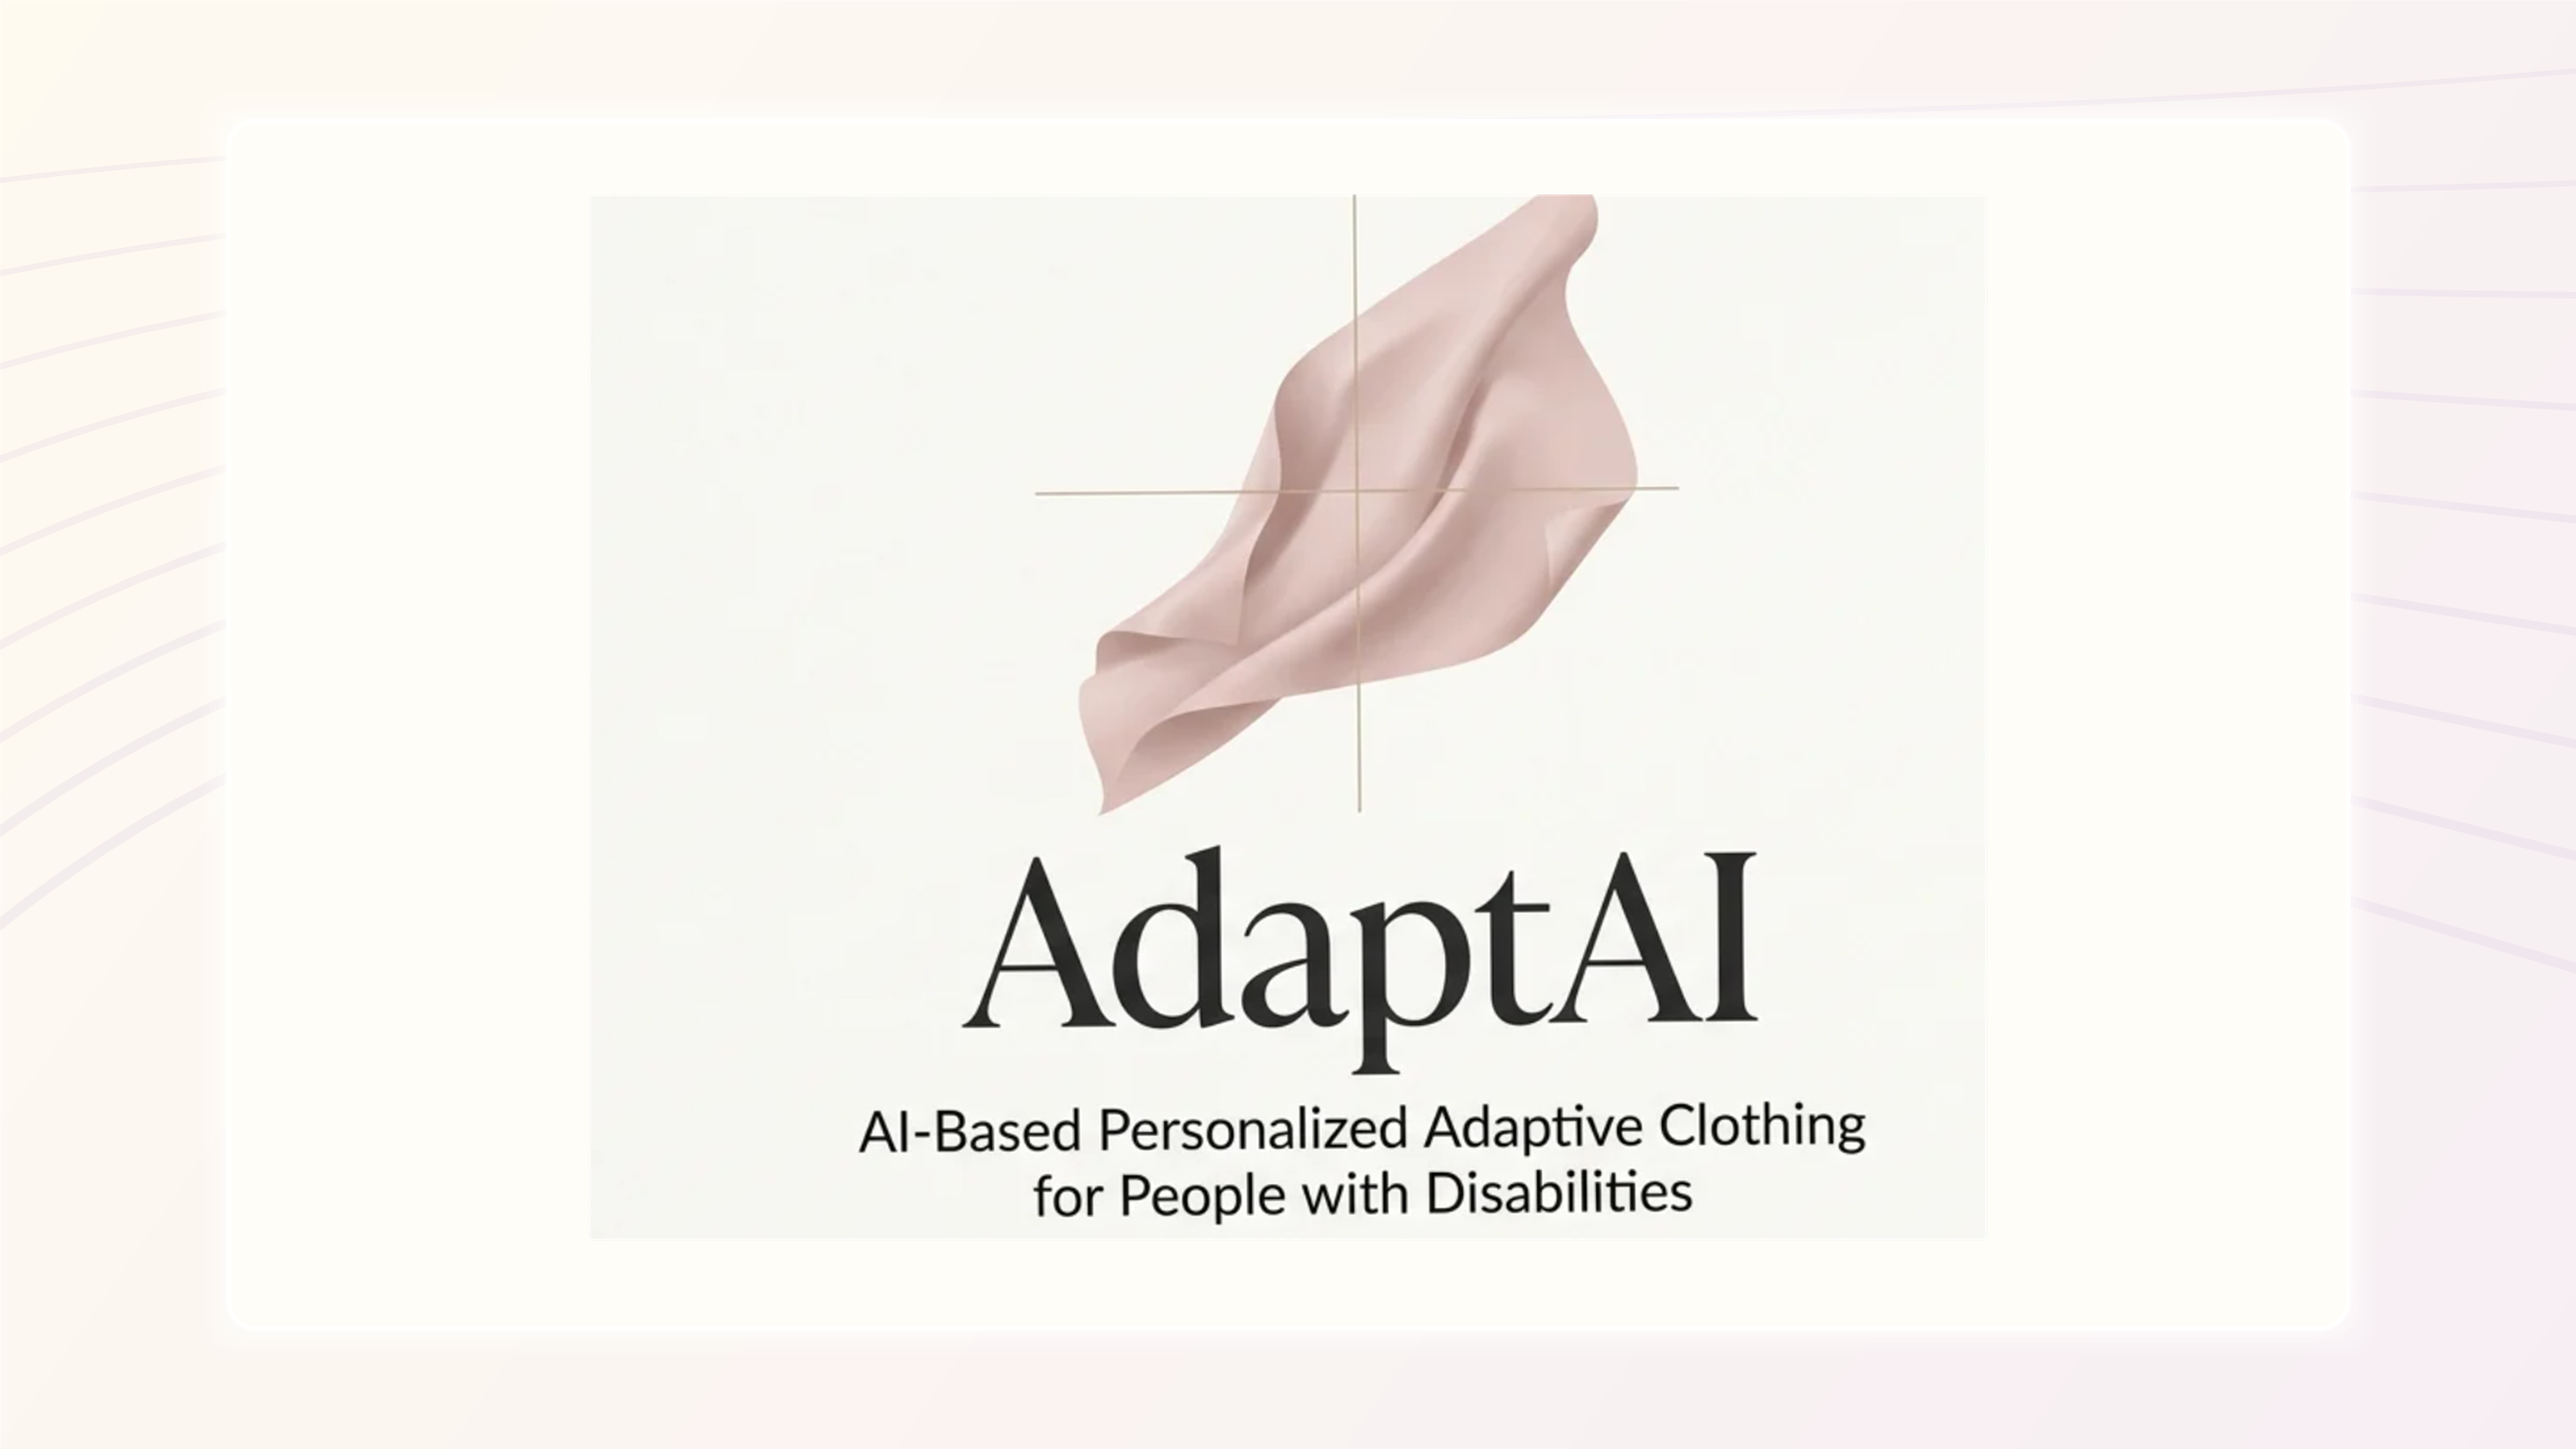
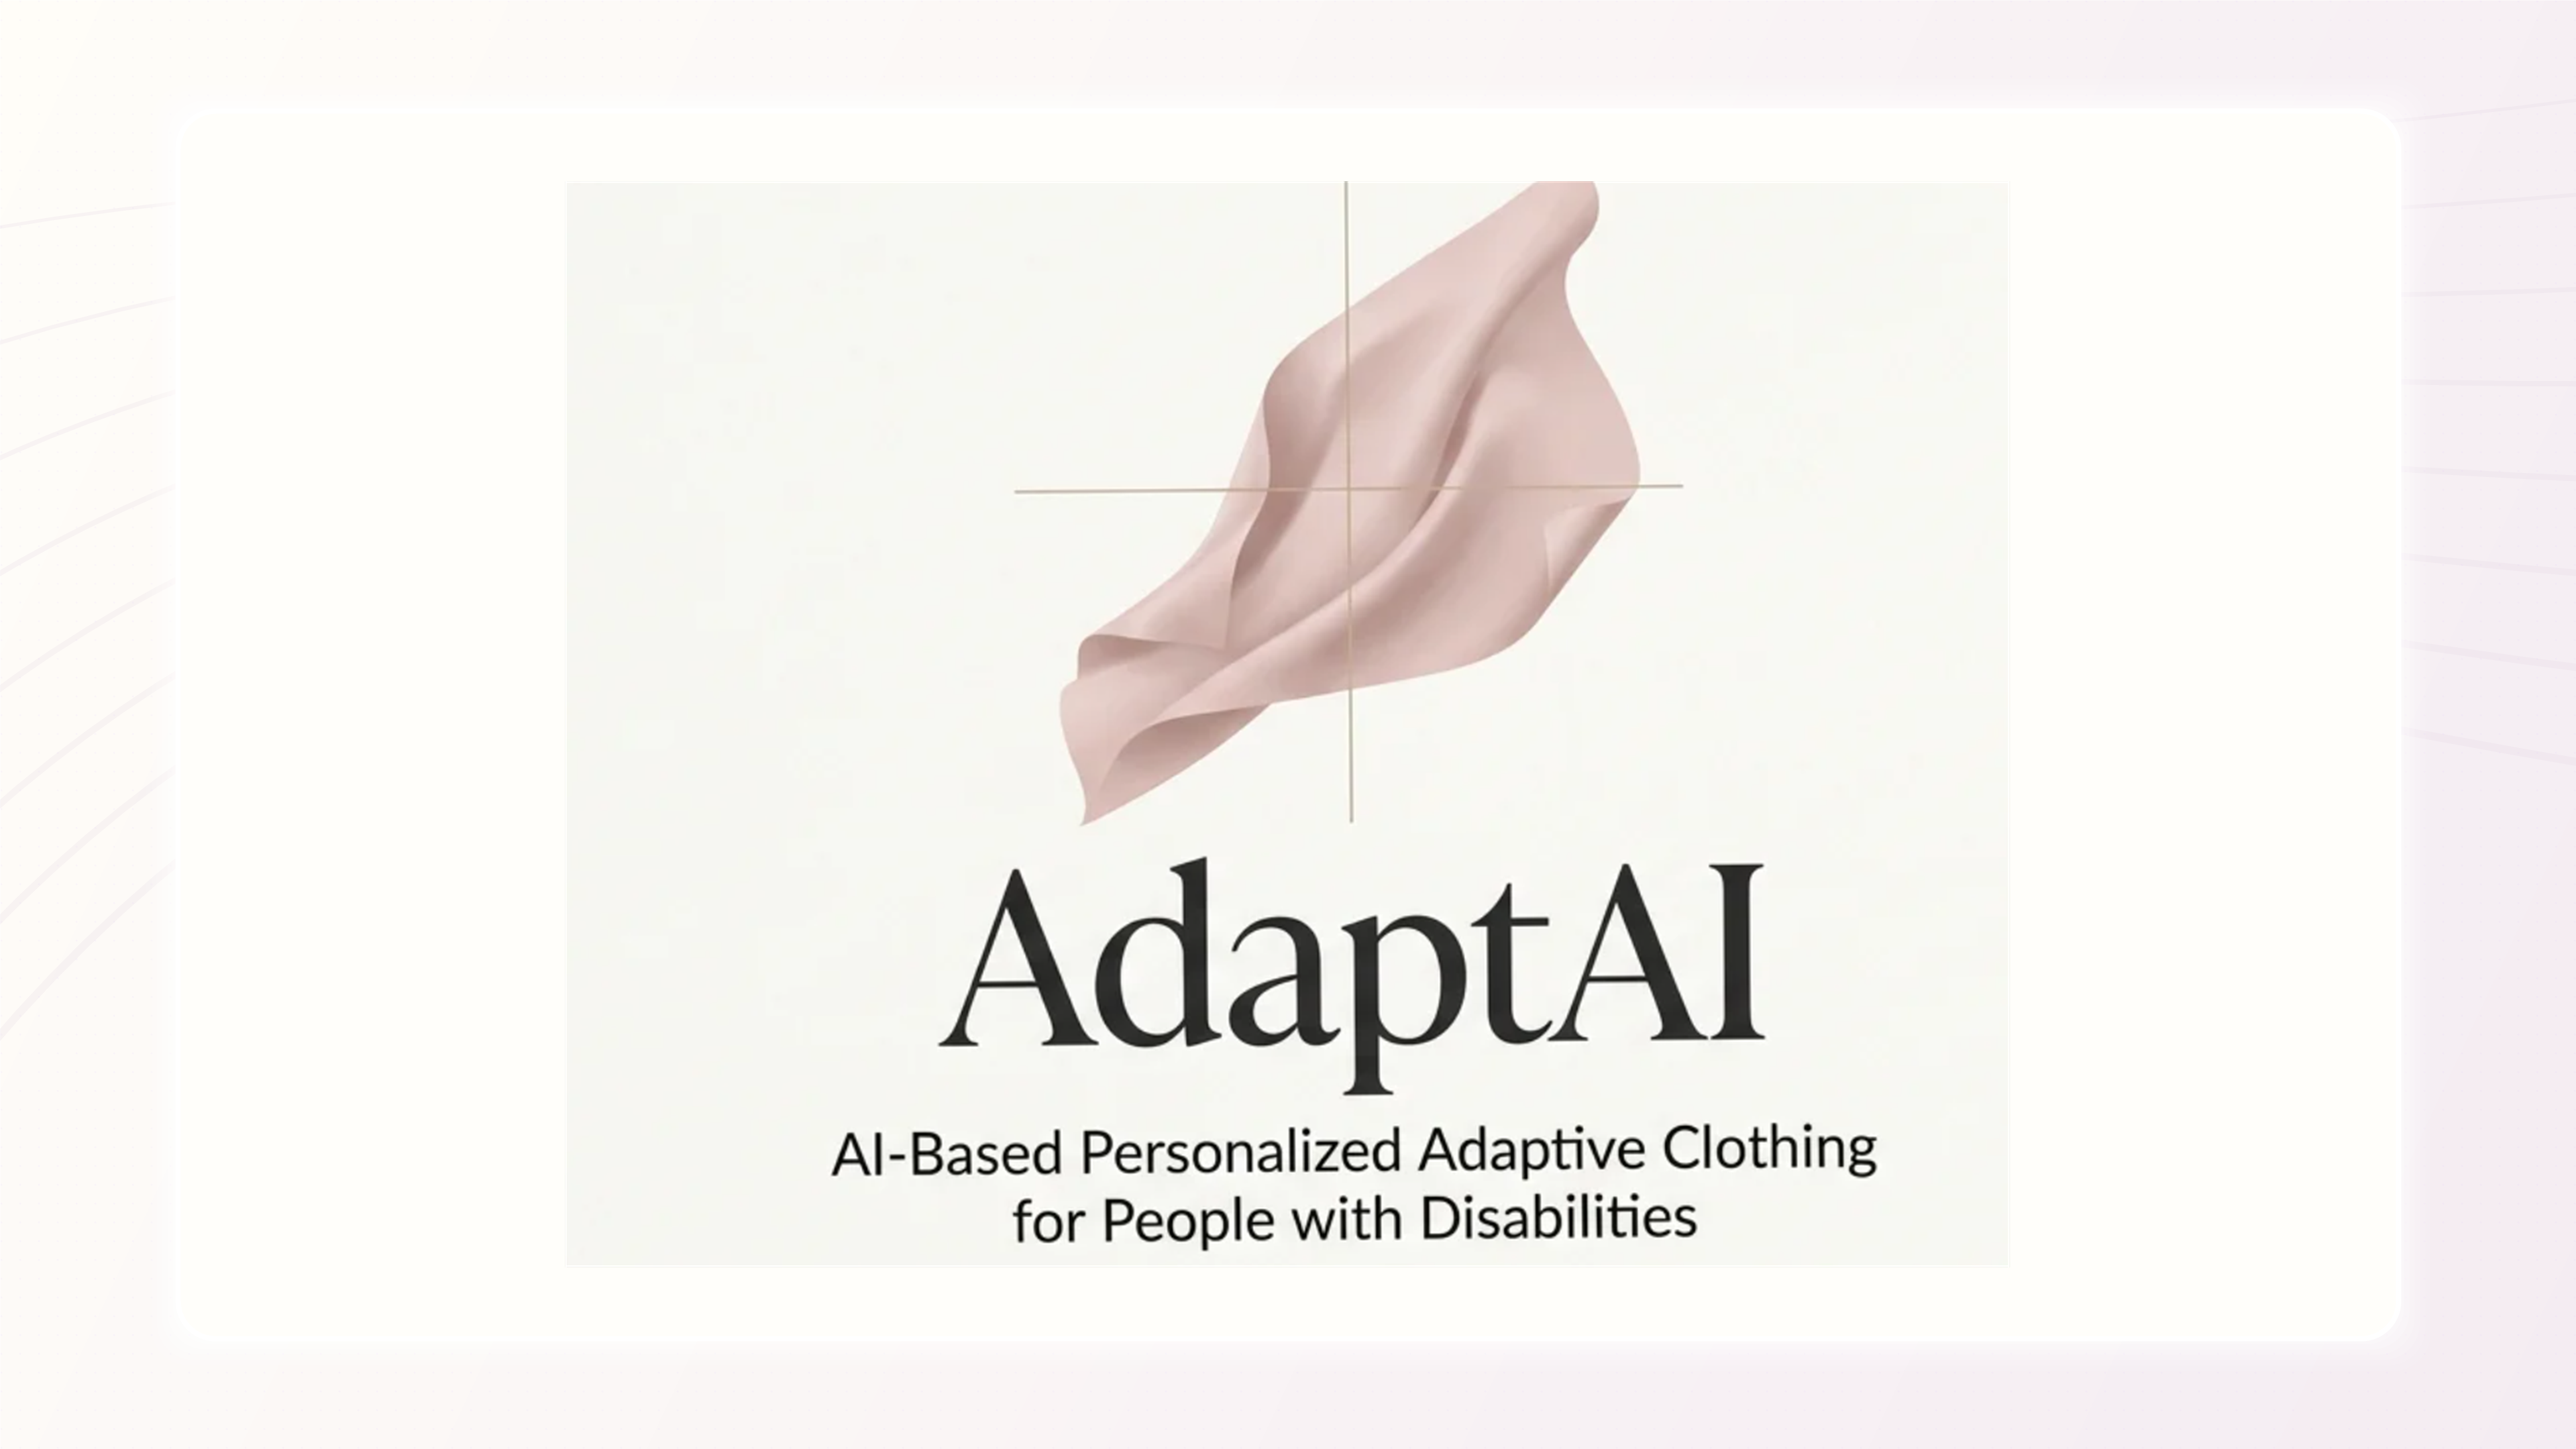
Center AdaptAI and fit Mentora covers

diff --git a/index.html b/index.html
@@ -7,7 +7,7 @@
   <link rel="preconnect" href="https://fonts.googleapis.com">
   <link rel="preconnect" href="https://fonts.gstatic.com" crossorigin>
   <link href="https://fonts.googleapis.com/css2?family=Allura&family=Anton&family=Sora:wght@400;600;700;800&family=Manrope:wght@400;500;700&display=swap" rel="stylesheet">
-  <link rel="stylesheet" href="styles.css?v=20260801-adapt-mentora-cover-polish" />
+  <link rel="stylesheet" href="styles.css?v=20260801-cover-align-final" />
 </head>
 <body class="projects-page dark-mode">
   <div id="loader" class="loader-screen" aria-live="polite">
@@ -73,7 +73,7 @@
         <article class="case-card project-showcase">
           <a class="project-tile-link" href="projects/campus-app.html" aria-label="Open AdaptAI case study">
             <div class="project-thumb divide-thumb">
-              <img src="assets/projects/adaptai/adaptai-home-cover.png?v=20260801-adapt-mentora-cover-polish" alt="AdaptAI adaptive clothing case study preview" loading="lazy" />
+              <img src="assets/projects/adaptai/adaptai-home-cover.png?v=20260801-cover-align-final" alt="AdaptAI adaptive clothing case study preview" loading="lazy" />
               <div class="project-award"><span class="trophy" aria-hidden="true">&#127942;</span><strong>1st Place</strong><span>Hackathon</span></div>
             </div>
           </a>
@@ -83,7 +83,7 @@
         <article class="case-card project-showcase">
           <a class="project-tile-link" href="projects/hackathon-toolkit.html" aria-label="Open Mentora case study">
             <div class="project-thumb mentora-thumb">
-              <img src="assets/projects/mentora/mentora-home-cover.png?v=20260801-adapt-mentora-cover-polish" alt="Mentora case study preview" loading="lazy" />
+              <img src="assets/projects/mentora/mentora-home-cover.png?v=20260801-cover-align-final" alt="Mentora case study preview" loading="lazy" />
               <div class="project-award"><span class="trophy" aria-hidden="true">&#127942;</span><strong>2nd Place</strong><span>Hackathon</span></div>
             </div>
           </a>
@@ -93,7 +93,7 @@
         <article class="case-card project-showcase">
           <a class="project-tile-link" href="projects/energy-dashboard.html" aria-label="Open MedAuth Clinical case study">
             <div class="project-thumb authform-thumb">
-              <img src="assets/projects/medauth/medauth-home-cover.png?v=20260801-adapt-mentora-cover-polish" alt="MedAuth Clinical physician dashboard preview" loading="lazy" />
+              <img src="assets/projects/medauth/medauth-home-cover.png?v=20260801-cover-align-final" alt="MedAuth Clinical physician dashboard preview" loading="lazy" />
               <div class="project-award"><span class="trophy" aria-hidden="true">&#127942;</span><strong>2nd Place</strong><span>Hackathon</span></div>
             </div>
           </a>
@@ -103,7 +103,7 @@
         <article class="case-card project-showcase">
           <a class="project-tile-link" href="projects/media-campaign.html" aria-label="Open UH Energy Website case study">
             <div class="project-thumb energy-thumb">
-              <img src="assets/projects/uh-energy/uh-energy-home-cover.png?v=20260801-adapt-mentora-cover-polish" alt="UH Energy website metrics case study preview" loading="lazy" />
+              <img src="assets/projects/uh-energy/uh-energy-home-cover.png?v=20260801-cover-align-final" alt="UH Energy website metrics case study preview" loading="lazy" />
             </div>
           </a>
           <div class="project-chip-row"><span>UX/Web Support</span><span>Work Project</span><span>2025</span></div>
@@ -207,6 +207,6 @@
     <a href="#contact-section">Contact</a>
   </footer>
 
-  <script src="script.js?v=20260801-adapt-mentora-cover-polish"></script>
+  <script src="script.js?v=20260801-cover-align-final"></script>
 </body>
 </html>

diff --git a/projects/campus-app.html b/projects/campus-app.html
@@ -7,7 +7,7 @@
   <link rel="preconnect" href="https://fonts.googleapis.com">
   <link rel="preconnect" href="https://fonts.gstatic.com" crossorigin>
   <link href="https://fonts.googleapis.com/css2?family=Allura&family=Anton&family=Sora:wght@400;600;700;800&family=Manrope:wght@400;500;700&display=swap" rel="stylesheet">
-  <link rel="stylesheet" href="../styles.css?v=20260801-adapt-mentora-cover-polish" />
+  <link rel="stylesheet" href="../styles.css?v=20260801-cover-align-final" />
 </head>
 <body class="dark-mode">
   <header class="site-header">
@@ -25,7 +25,7 @@
   <main class="case-study brandon-case adaptai-case">
     <section class="case-cover divide-cover compact-case-cover">
       <div class="case-cover-art">
-        <img src="../assets/projects/adaptai/adaptai-home-cover.png?v=20260801-adapt-mentora-cover-polish" alt="AdaptAI adaptive clothing platform title visual" loading="eager" />
+        <img src="../assets/projects/adaptai/adaptai-home-cover.png?v=20260801-cover-align-final" alt="AdaptAI adaptive clothing platform title visual" loading="eager" />
       </div>
     </section>
 
@@ -174,6 +174,6 @@
     <a href="../index.html#contact-section">Contact</a>
   </footer>
 
-  <script src="../script.js?v=20260801-adapt-mentora-cover-polish"></script>
+  <script src="../script.js?v=20260801-cover-align-final"></script>
 </body>
 </html>

diff --git a/projects/energy-dashboard.html b/projects/energy-dashboard.html
@@ -7,7 +7,7 @@
   <link rel="preconnect" href="https://fonts.googleapis.com">
   <link rel="preconnect" href="https://fonts.gstatic.com" crossorigin>
   <link href="https://fonts.googleapis.com/css2?family=Allura&family=Anton&family=Sora:wght@400;600;700;800&family=Manrope:wght@400;500;700&display=swap" rel="stylesheet">
-  <link rel="stylesheet" href="../styles.css?v=20260801-adapt-mentora-cover-polish" />
+  <link rel="stylesheet" href="../styles.css?v=20260801-cover-align-final" />
 </head>
 <body class="dark-mode">
   <header class="site-header">
@@ -25,7 +25,7 @@
   <main class="case-study brandon-case medauth-case authform-case">
     <section class="case-cover authform-cover compact-case-cover">
       <div class="case-cover-art">
-        <img src="../assets/projects/medauth/medauth-home-cover.png?v=20260801-adapt-mentora-cover-polish" alt="MedAuth Clinical prototype award cover" loading="eager" />
+        <img src="../assets/projects/medauth/medauth-home-cover.png?v=20260801-cover-align-final" alt="MedAuth Clinical prototype award cover" loading="eager" />
       </div>
     </section>
 
@@ -147,6 +147,6 @@
     <a href="../index.html#contact-section">Contact</a>
   </footer>
 
-  <script src="../script.js?v=20260801-adapt-mentora-cover-polish"></script>
+  <script src="../script.js?v=20260801-cover-align-final"></script>
 </body>
 </html>

diff --git a/projects/hackathon-toolkit.html b/projects/hackathon-toolkit.html
@@ -7,7 +7,7 @@
   <link rel="preconnect" href="https://fonts.googleapis.com">
   <link rel="preconnect" href="https://fonts.gstatic.com" crossorigin>
   <link href="https://fonts.googleapis.com/css2?family=Allura&family=Anton&family=Sora:wght@400;600;700;800&family=Manrope:wght@400;500;700&display=swap" rel="stylesheet">
-  <link rel="stylesheet" href="../styles.css?v=20260801-adapt-mentora-cover-polish" />
+  <link rel="stylesheet" href="../styles.css?v=20260801-cover-align-final" />
 </head>
 <body class="dark-mode">
   <header class="site-header">
@@ -25,7 +25,7 @@
   <main class="case-study brandon-case mentora-case">
     <section class="case-cover mentora-cover compact-case-cover">
       <div class="case-cover-art">
-        <img src="../assets/projects/mentora/mentora-home-cover.png?v=20260801-adapt-mentora-cover-polish" alt="Mentora login screen with book logo" loading="eager" />
+        <img src="../assets/projects/mentora/mentora-home-cover.png?v=20260801-cover-align-final" alt="Mentora login screen with book logo" loading="eager" />
       </div>
     </section>
 
@@ -133,6 +133,6 @@
     <a href="../index.html#contact-section">Contact</a>
   </footer>
 
-  <script src="../script.js?v=20260801-adapt-mentora-cover-polish"></script>
+  <script src="../script.js?v=20260801-cover-align-final"></script>
 </body>
 </html>

diff --git a/projects/media-campaign.html b/projects/media-campaign.html
@@ -7,7 +7,7 @@
   <link rel="preconnect" href="https://fonts.googleapis.com">
   <link rel="preconnect" href="https://fonts.gstatic.com" crossorigin>
   <link href="https://fonts.googleapis.com/css2?family=Allura&family=Anton&family=Sora:wght@400;600;700;800&family=Manrope:wght@400;500;700&display=swap" rel="stylesheet">
-  <link rel="stylesheet" href="../styles.css?v=20260801-adapt-mentora-cover-polish" />
+  <link rel="stylesheet" href="../styles.css?v=20260801-cover-align-final" />
 </head>
 <body class="dark-mode">
   <header class="site-header">
@@ -25,7 +25,7 @@
   <main class="case-study brandon-case uh-energy-case">
     <section class="case-cover energy-cover">
       <div class="case-cover-art">
-        <img src="../assets/projects/uh-energy/uh-energy-home-cover.png?v=20260801-adapt-mentora-cover-polish" alt="UH Energy by the numbers website section" loading="eager" />
+        <img src="../assets/projects/uh-energy/uh-energy-home-cover.png?v=20260801-cover-align-final" alt="UH Energy by the numbers website section" loading="eager" />
       </div>
     </section>
 
@@ -126,6 +126,6 @@
     <a href="../index.html#contact-section">Contact</a>
   </footer>
 
-  <script src="../script.js?v=20260801-adapt-mentora-cover-polish"></script>
+  <script src="../script.js?v=20260801-cover-align-final"></script>
 </body>
 </html>

diff --git a/styles.css b/styles.css
@@ -3031,3 +3031,23 @@ main.case-study > section.case-cover.energy-cover .case-cover-art > img {
     object-position: center center !important;
   }
 }
+
+/* Final alignment fix for AdaptAI and Mentora cover cards. */
+.projects-page .divide-thumb,
+.projects-page .mentora-thumb {
+  background: #ffffff !important;
+}
+
+.projects-page .divide-thumb img,
+.projects-page .mentora-thumb img {
+  object-fit: contain !important;
+  object-position: center center !important;
+  padding: 0 !important;
+}
+
+main.case-study > section.case-cover.divide-cover.compact-case-cover .case-cover-art > img,
+main.case-study > section.case-cover.mentora-cover.compact-case-cover .case-cover-art > img {
+  object-fit: contain !important;
+  object-position: center center !important;
+  padding: 0 !important;
+}
